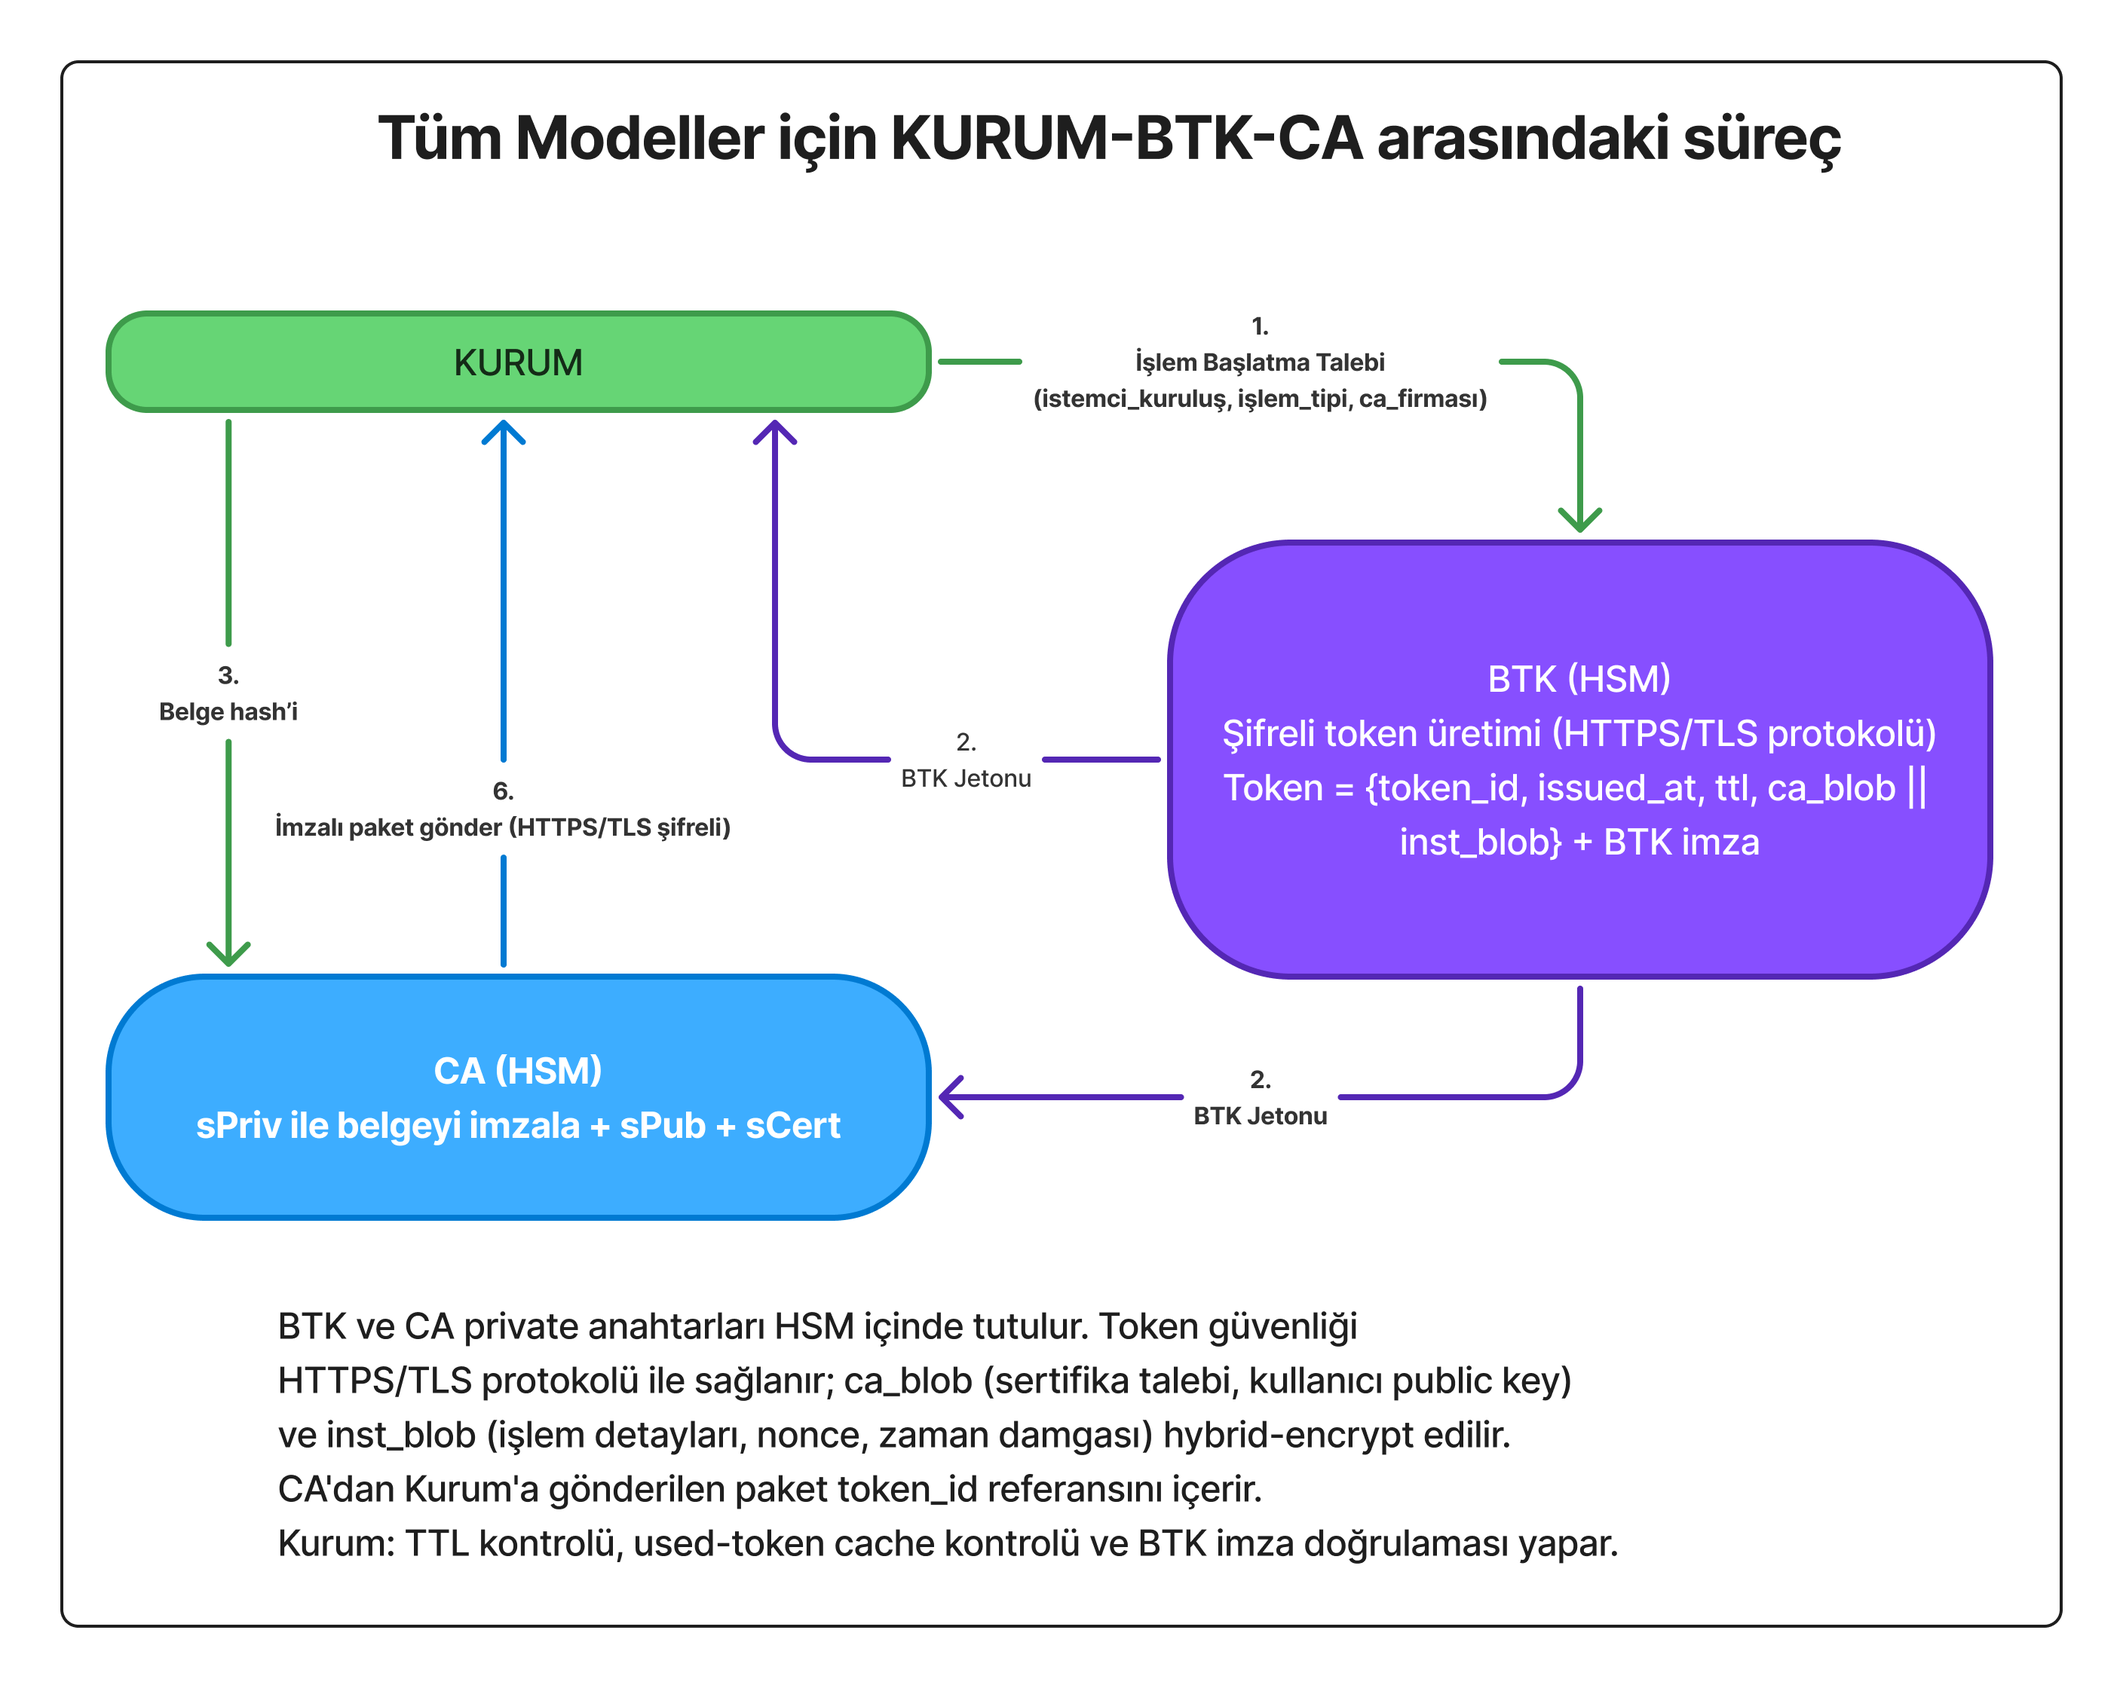
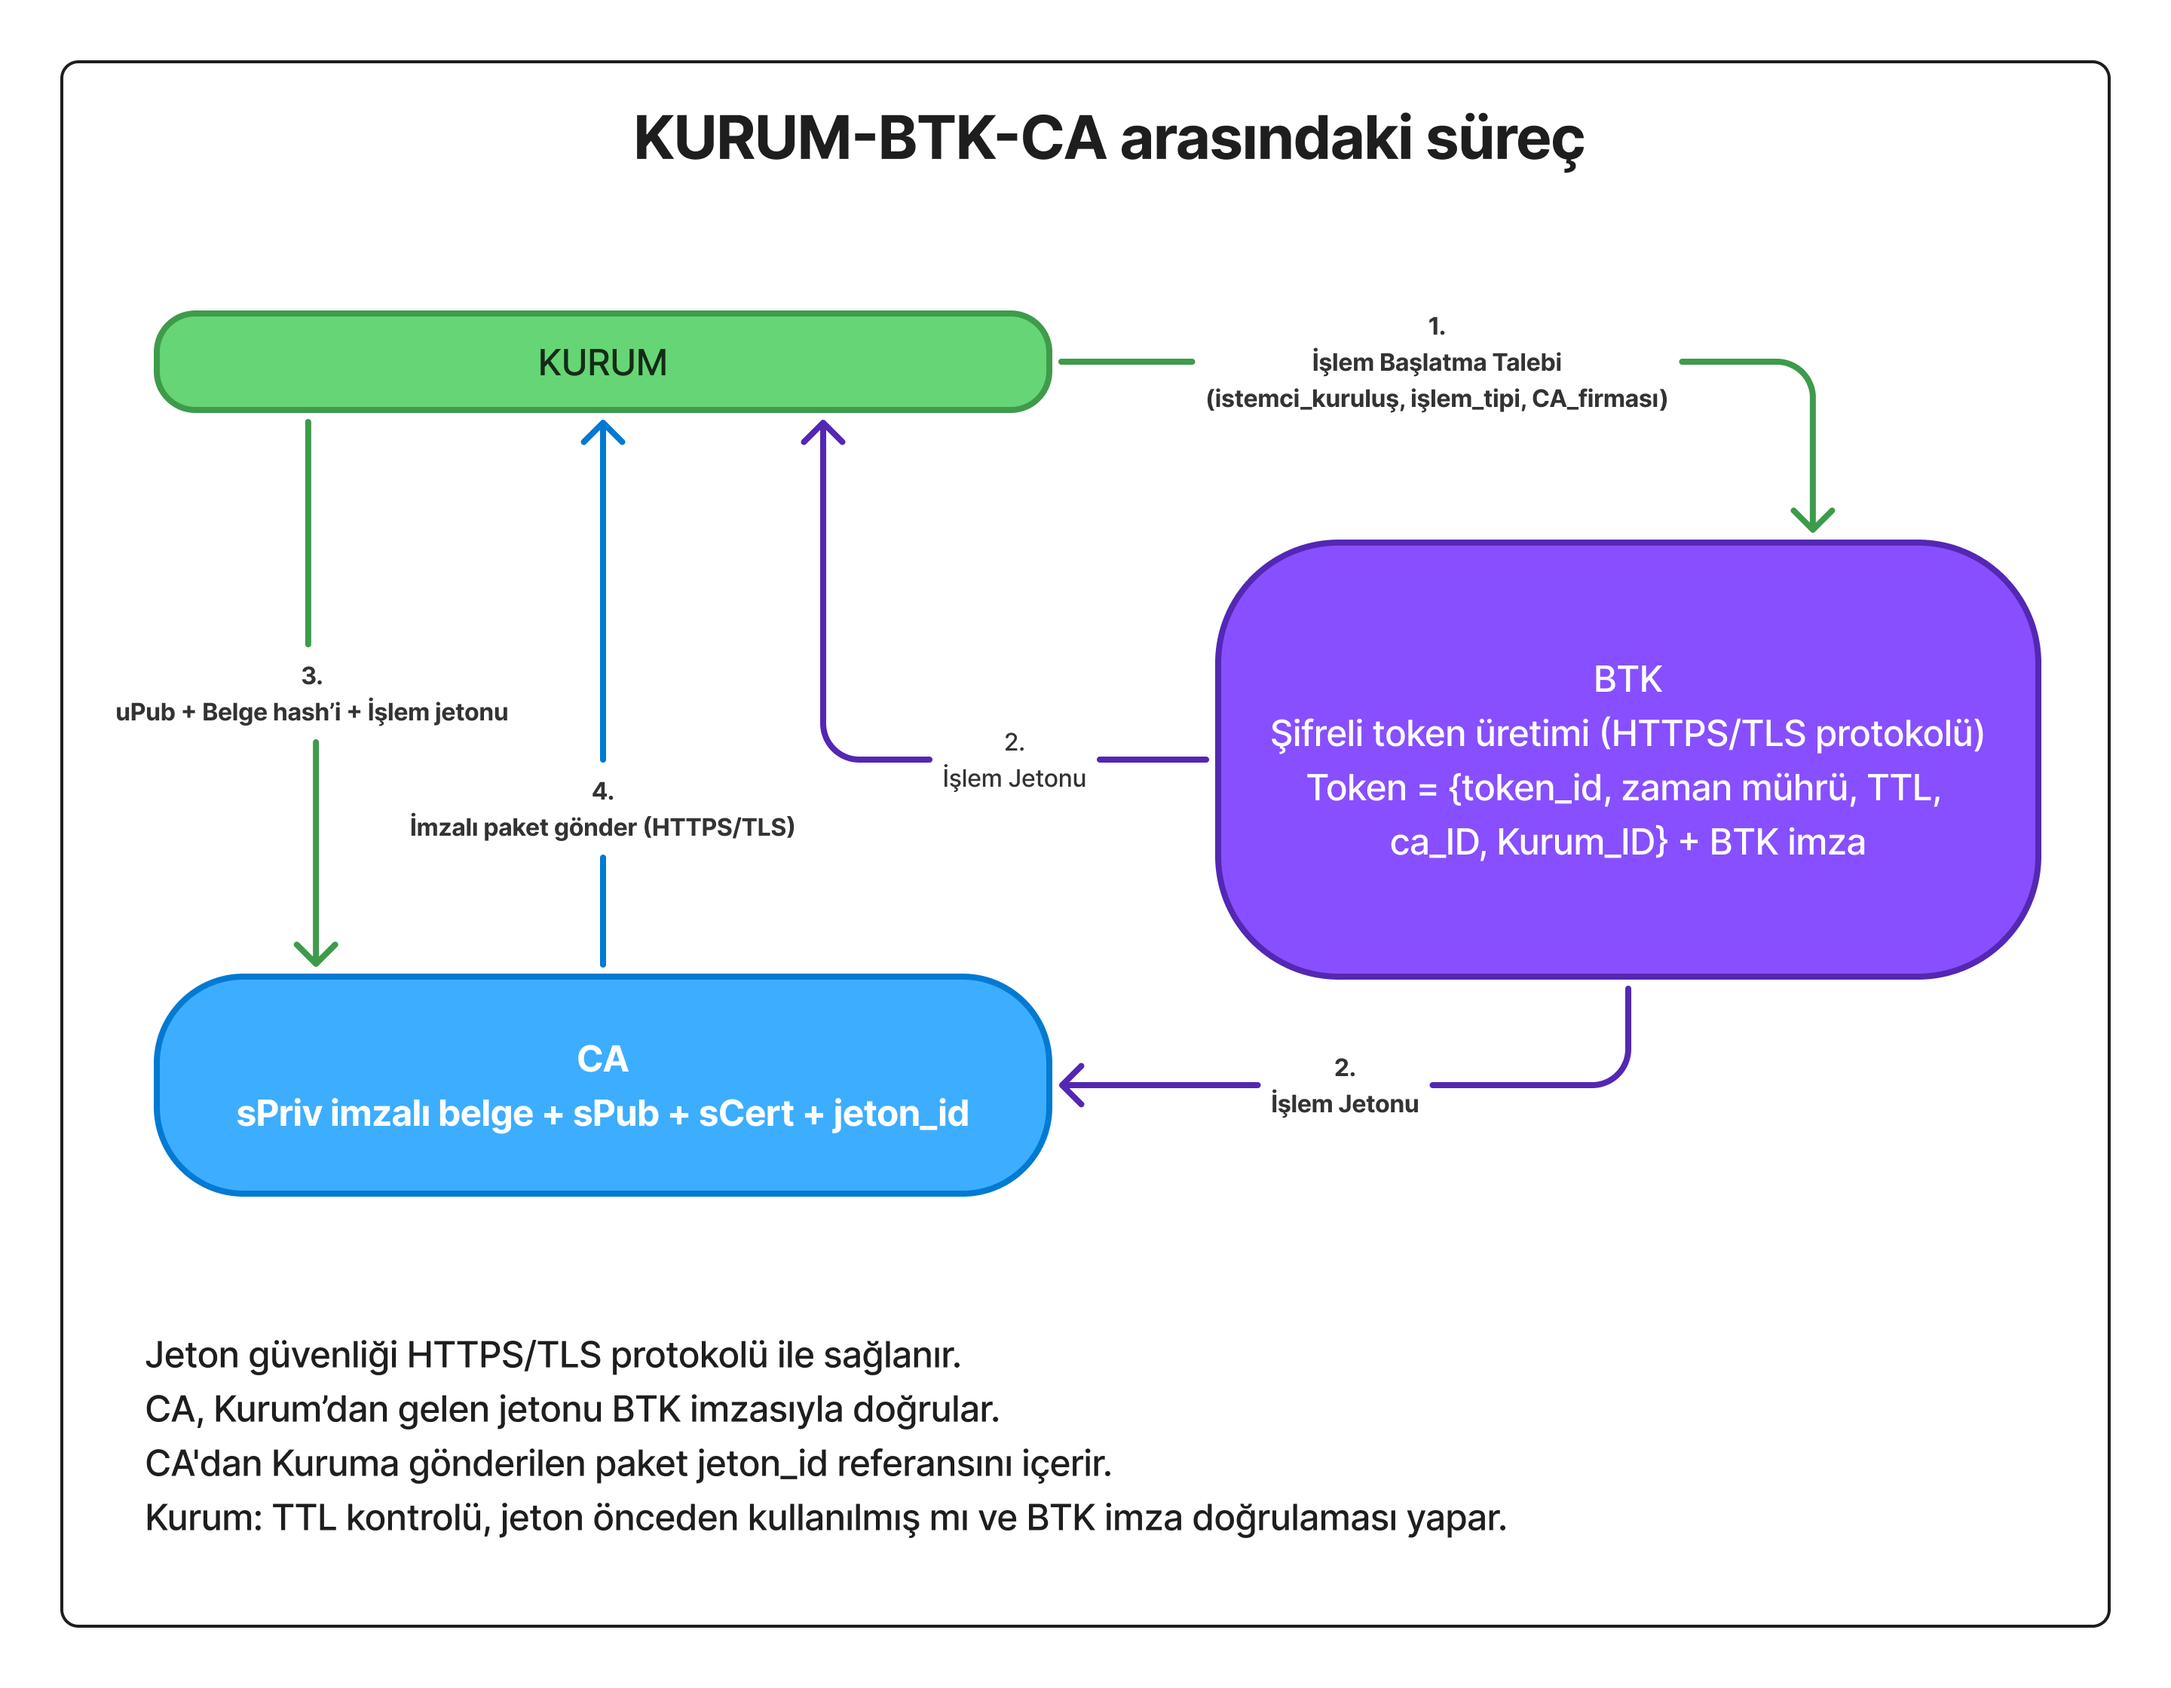
.

diff --git a/readme_2.md b/readme_2.md
@@ -77,39 +77,34 @@ E-imza sahibi resmi bir işlem başlatmak istediğinde CA (Sertifika Hizmet Sağ
 <img src="images/online_eimza_kayit_diyagram_TR.png" alt="İlk Kayıt Süreci" width="600">
 </center>
 
-1. Kullanıcı → e-Devlet:
-   Kimlik doğrulama (TC Kimlik No + Şifre/Biyometrik)
+## Model 2A – İlk Kayıt Süreci
 
-2. e-Devlet → Kullanıcı:
-   Kimlik onayı
+1. **Kullanıcı → e-Devlet:** Dijital imza başvurusu
 
-3. Kullanıcı → CA Seçimi:
-   Hangi CA ile çalışmak istediğini seçer (örn: E-Güven, Kamu SM)
+2. **e-Devlet:** Kimlik doğrulama
 
-4. Kullanıcı Cihazında:
-   • Seçilen CA için izole alan oluşturulur
-   • İzole alanda uPriv/uPub anahtar çifti üretilir
-   • Seçilen CA'nın CAPub'u izole alana yüklenir
+3. **e-Devlet → Kullanıcı:** İzole alan uygulamasını indir
 
-5. Kullanıcı → CA:
-   uPub + e-Devlet kimlik doğrulama jetonu
+4. **Kullanıcı Cihazı:** İzole alan oluşturulur, uPriv/uPub üretilir
 
-6. CA → e-Devlet API:
-   Kimlik doğrulama jetonunu kontrol eder
+5. **Kullanıcı:** CA seçimi yapar
 
-7. e-Devlet → CA:
-   Kullanıcı kimliği onayı
+6. **e-Devlet → BTK:** Kayıt işlemi başlatma
 
-8. CA:
-   • uPub'u kullanıcı hesabına kaydeder
-   • Kullanıcı sertifikası (uCert) oluşturur
-   • uCert'i yayınlar
+7. **BTK → e-Devlet, CA, Kullanıcı:** İşlem jetonu
 
-9. CA → Kullanıcı İzole Alanı:
-   uCert (kullanıcı sertifikası)
+8. **e-Devlet → CA (HTTPS/TLS):**
+   - Kullanıcı kimlik bilgileri
+   - uPub
+   - e-Devlet dijital imzası
 
-10. İzole Alan:
-    uCert'i saklar ve ilk kayıt tamamlanır
+9. **CA:**
+   - Kullanıcıyı kaydeder (uPub ile)
+   - uCert oluşturur
+
+10. **CA → Kullanıcı İzole Alanı:** uCert, CAPub teslim edilir
+
+11. **Kayıt tamamlandı**
 
 #### Model 2B – İşlem Aşaması
 <center>
@@ -149,14 +144,6 @@ Bu modelde kullanıcının cihazında izole bir çalışma alanı (sandbox, dock
    • Geçici Sertifika (sCert)
 
 
-
-
-  
-
-
-
-
-
 ### Kurum–BTK–CA Süreci
 <center>
 <img src="images/Kurum_BTK_CA_sureci_TR.png" alt="Model 2 Diyagramı" width="600">
@@ -194,16 +181,10 @@ BTK sürece müdahil olmaz, işlem detayına erişmez, kullanıcıya dair PII bi
    • İşlem jetonu (doğrulama için)
 
 6. CA:
-   • İşlem jetonunu BTK ile doğrular
-   • Jetonun geçerliliğini kontrol eder
    • Kurum ve CA bilgilerinin eşleştiğini teyit eder
-
-7. CA → İşlem Devam Eder:
-   Jeton geçerliyse Model 2B akışı başlar
-
-8. İşlem Tamamlandığında:
-   CA → BTK: İşlem tamamlandı bildirimi
-   BTK → Jetonu pasif yapar (tek kullanımlık)
+   • Tek kullanımlık; sPriv, sPub, sCert üretir
+   • Kurumdan gelen belge HASH'ini sPriv ile imzalar
+   • Kuruma; token_id, imzalanmış HASH'i, sPub'ı, sCert'i gönderir
 
 ---
 
@@ -212,56 +193,64 @@ BTK sürece müdahil olmaz, işlem detayına erişmez, kullanıcıya dair PII bi
 <img src="images/model_hibrit_diyagram_TR.png" alt="Model Hibrit Diyagramı" width="600">
 </center>
 
-1. Kullanıcı → Kurum:
-   İşlem talebi (mevcut e-imza cihazı ile)
+# Model 3 — Doğru Metin Akışı (Markdown)
+1. Kullanıcı → Kurum
+   - İşlem talebi (klasik e-imza sahibi)
 
-2. Kurum → Kullanıcı:
-   • Belge + Belge HASH'i
-   • "Onaylıyor musunuz?" sorusu
+2. Kurum → Kullanıcı  
+   - Belge + HASH + "Onaylıyor musunuz?"
 
-3. Kullanıcı:
-   • Belgeyi inceler
-   • Mevcut e-imza cihazını taktar (USB token/akıllı kart)
-   • Belge HASH'ini mevcut özel anahtarı ile imzalar
-   • Bu sadece ONAY imzasıdır, belgeyi imzalamaz
+3. Kullanıcı → Kurum
+   - uPriv ile imzalanmış HASH (onay imzası)
+   - uPub (kimlik doğrulama için)
+   ⚠ Bu sadece "işlem onayı"dır, nihai belge imzası değil
 
-4. Kullanıcı → Kurum:
-   Klasik e-imza ile imzalanmış Belge HASH'i (onay imzası)
+4. Kurum → BTK
+   - İşlem başlatma talebi: {kurum_ID, işlem_tipi, CA_ID}
 
-5. Kurum → BTK:
-   İşlem başlatma talebi
+5. BTK → Kurum & CA
+   - İşlem jetonu: {token_id, zaman_mührü, TTL, ca_ID, kurum_ID} + BTK_imza
 
-6. BTK → Kurum & CA:
-   İşlem jetonu
+6. Kurum → CA
+   - {Belge HASH, onay_imzası, uPub, token_id}
 
-7. Kurum → CA:
-   • Kullanıcının klasik e-imza sertifikası
-   • Onay imzası (klasik e-imza ile imzalanmış HASH)
-   • Belge HASH'i
-   • İşlem jetonu
+7. CA İşlemleri:  
+   a) Token doğrulama (BTK imzası + TTL kontrolü)  
+   b) uPub ile onay_imzasını doğrulama  
+   c) uPub'dan kullanıcı kimliğini tespit edip veritabanından bilgilere erişme  
+   d) Geçici anahtar çifti üretme: (sPriv, sPub)  
+   e) Geçici sertifika üretme: sCert  
+   f) Belge HASH'ini sPriv ile imzalama  
 
-8. CA:
-   • Klasik e-imza sertifikasını doğrular
-   • Onay imzasını klasik sertifika ile kontrol eder
-   • Kullanıcı onayını teyit eder
-   • Yeni tek kullanımlık sPriv/sPub üretir
+8. CA → Kurum
+   - {sPriv ile imzalanmış HASH, sPub, sCert, token_id}
 
-9. CA:
-   • Belge HASH'ini sPriv ile imzalar
-   • sPriv'i kalıcı olarak imha eder
-   • Geçici sertifika (sCert) oluşturur
+## CA doğrulamaları
 
-10. CA → Kurum:
-    • sPriv ile imzalanmış Belge HASH'i
-    • sPub (doğrulama için)
-    • Geçici sertifika (sCert)
-    • İşlem jetonu
+* BTK jetonunun **imzası**, **TTL** ve **tek-kullanım** kontrolü.
+* **uPub** ile **onay imzasını** doğrulama.
+* **uPub**’ı kendi kayıtlarında (**CRL/OCSP/kendi dizini**) eşleştirip durumunu kontrol etme.
 
-11. Kurum:
-    • İmzalı HASH'i sPub ile doğrular
-    • sCert'i CA'nın ana sertifikası ile doğrular
-    • İşlem jetonunu kontrol eder
-    • İşlemi tamamlar ve kaydeder
+  * *(CA, kullanıcı sertifikasını Kurumdan almaz; kendisi tespit eder.)*
+* Bu kontrollerle **kullanıcı onayını** teyit eder.
+
+## CA üretim & imza
+
+* **Tek kullanımlık sPriv/sPub** üretir.
+* **Belge HASH’ini sPriv** ile imzalar → **sSig**.
+* **sPriv** HSM içinde **derhal imha edilir**.
+* **sCert** (geçici sertifika) düzenlenir; **token_id/TTL/tek-kullanım** bilgisi bağlanır.
+
+**CA → Kurum**
+
+* `{sSig, sPub, sCert, token_id}` (TLS).
+
+## Kurum doğrulamaları
+
+* **sSig**’ı **sPub** ile; **sCert**’i **CA kök/ara sertifikası**yla doğrula.
+* **BTK jetonu** için **imza/TTL/tek-kullanım** kontrolü.
+* İşlemi tamamla ve kaydet; **kullanıcıya sonuç bildir**.
+
 
 
 Bu model, mevcut e-imza sahiplerinin sisteme entegrasyonu için geliştirilmiştir.  
